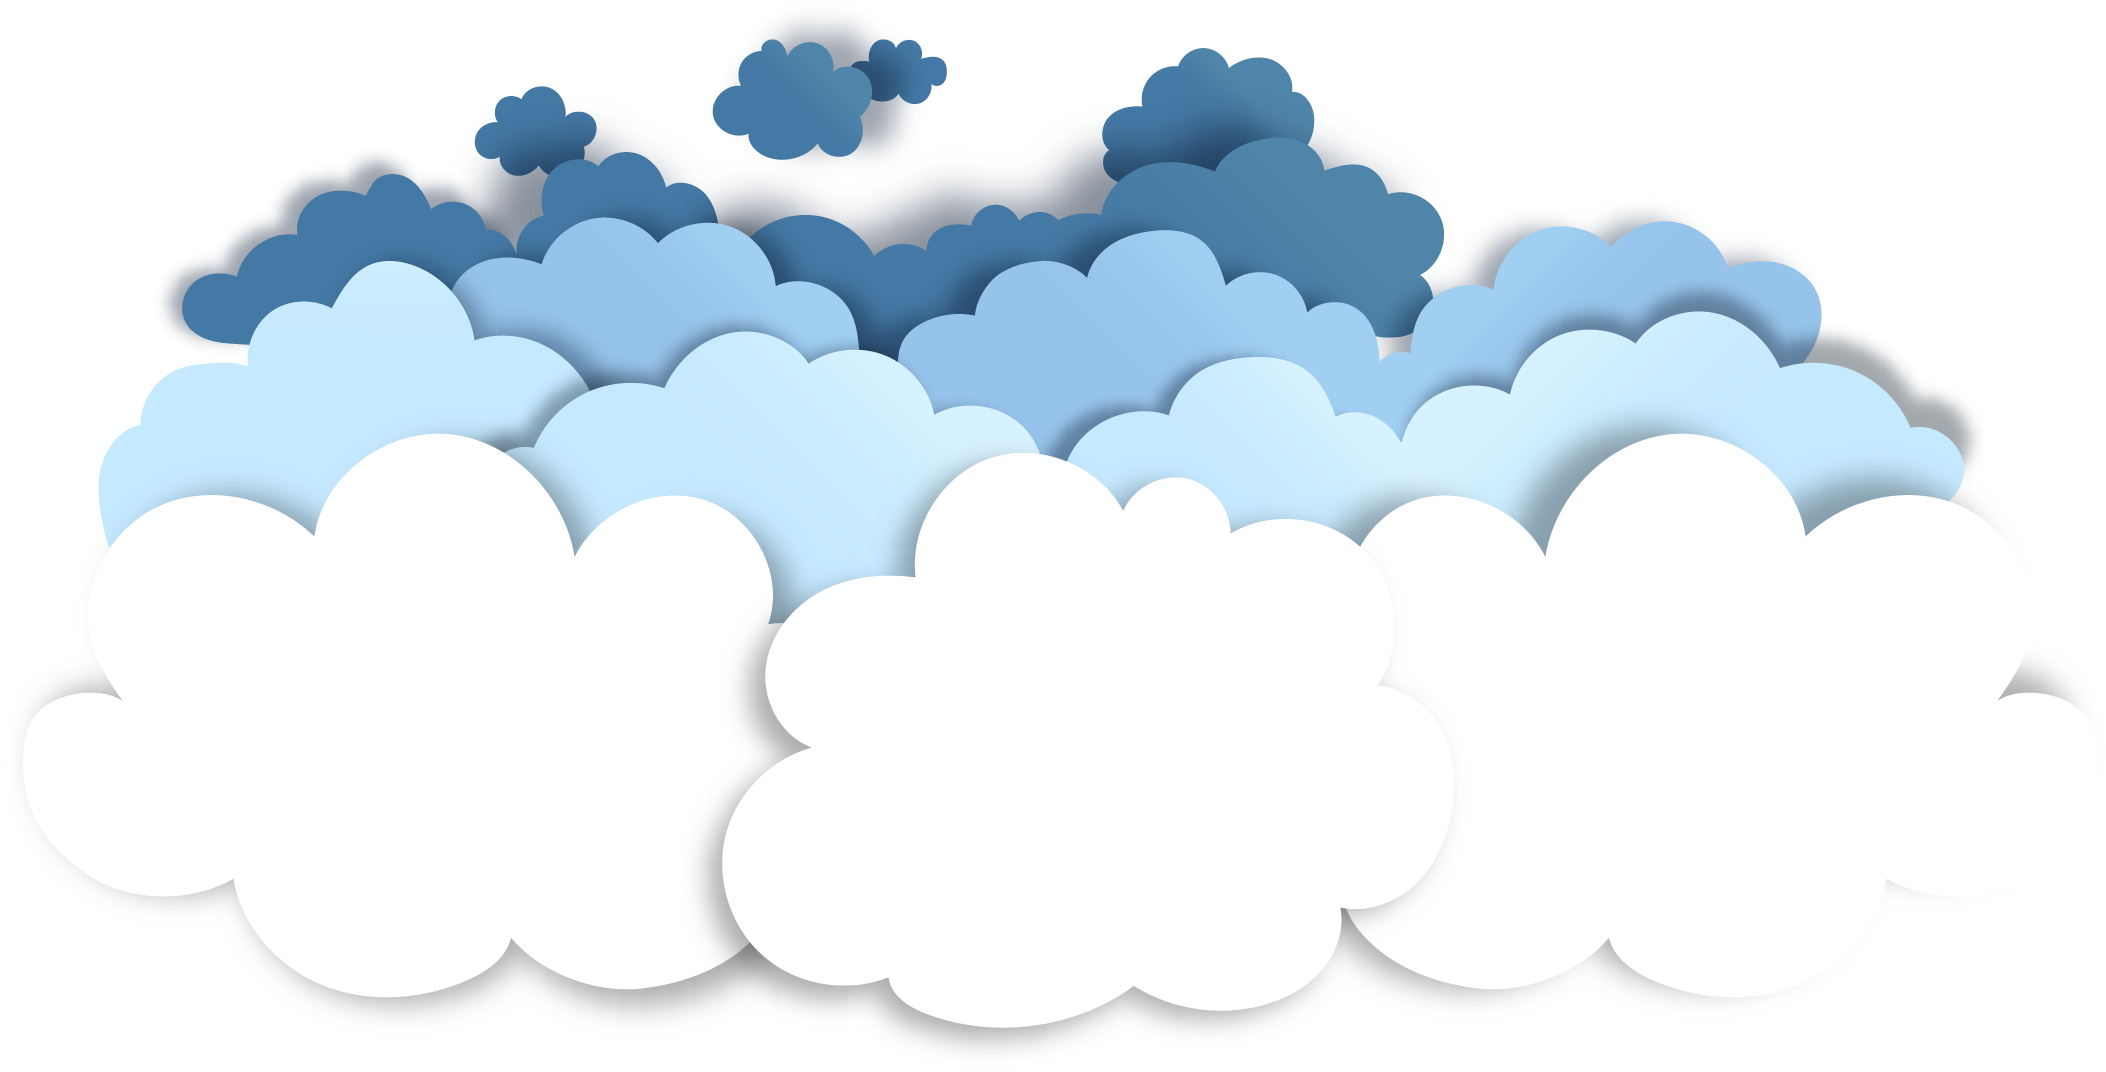
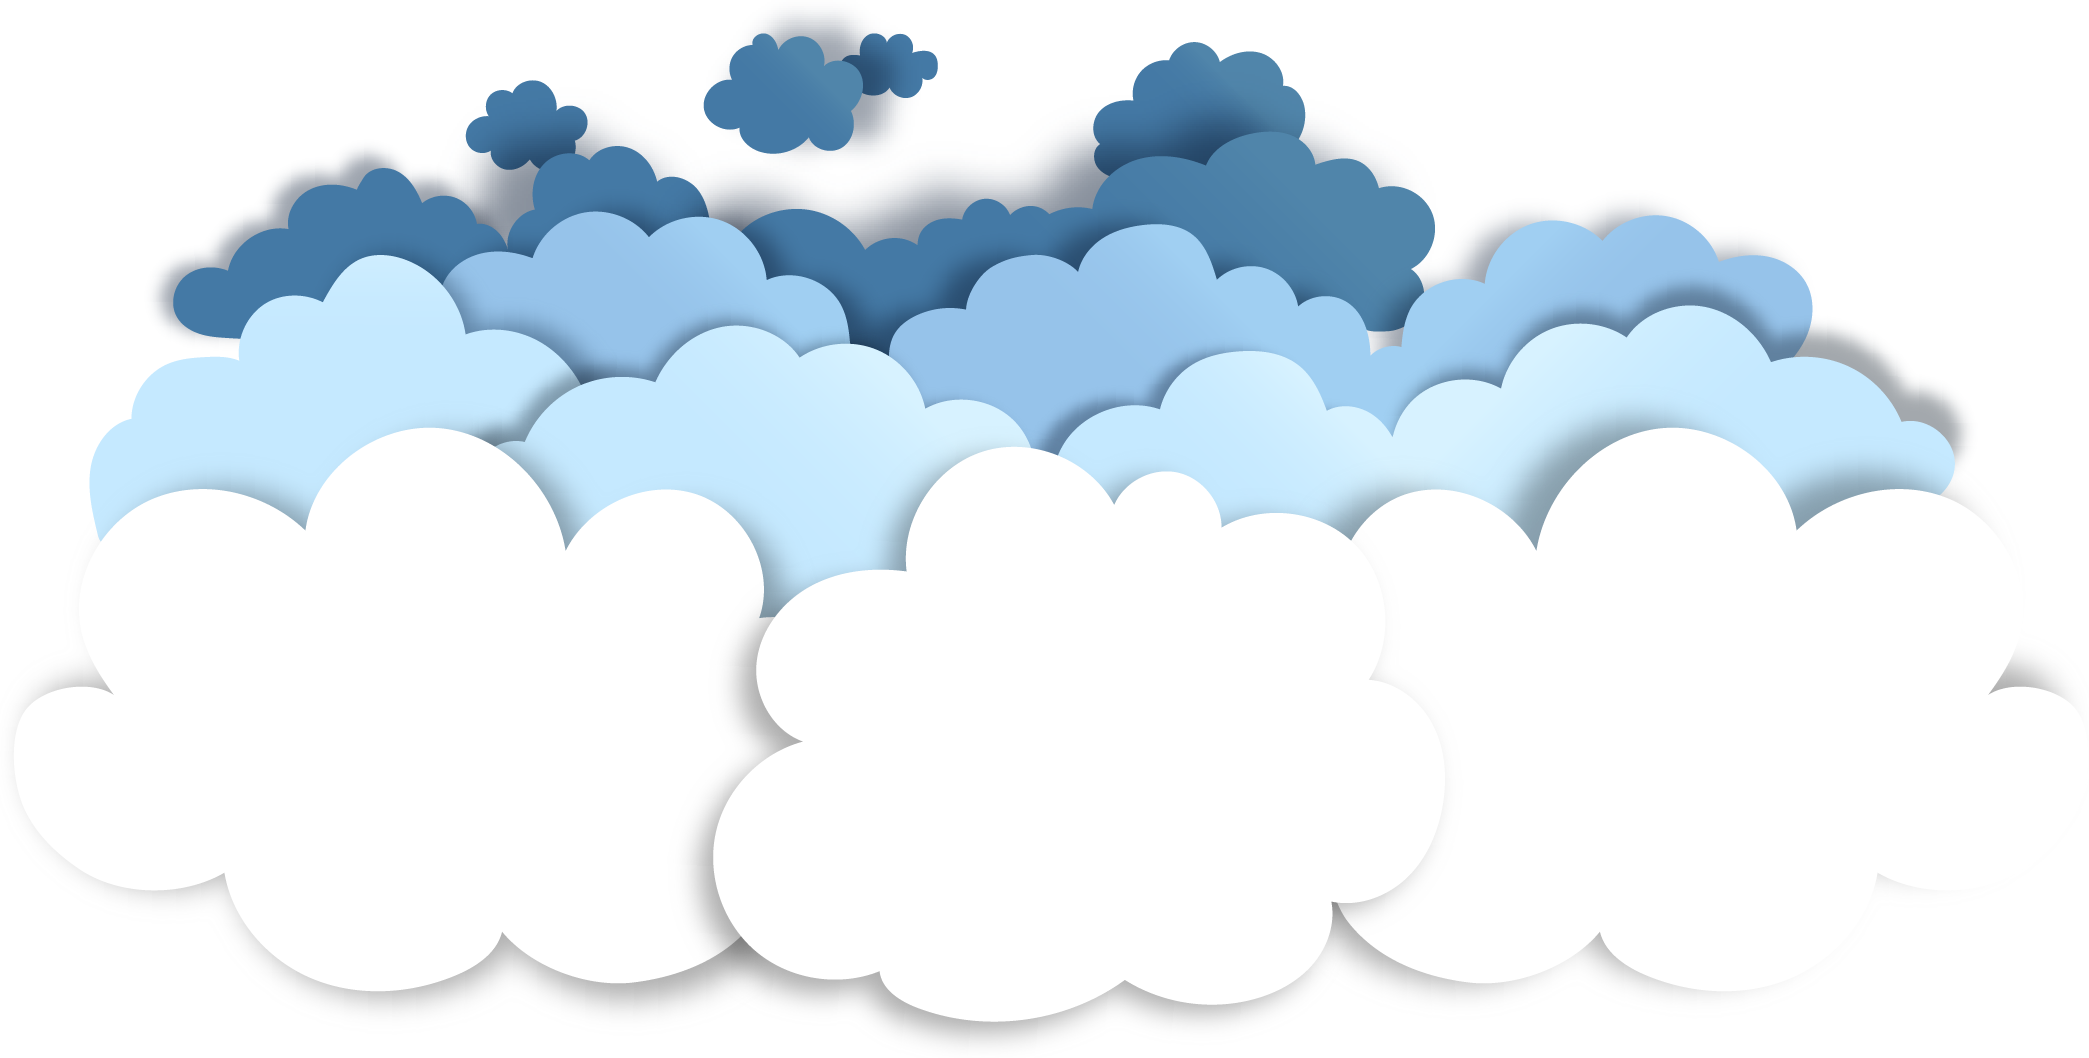
Changes

diff --git a/src/routes/_rain/_rain.svelte b/src/routes/_rain/_rain.svelte
@@ -1,9 +1,8 @@
 <script>
 	import IntersectionObserver from 'svelte-intersection-observer';
-	import Summary from './_summary.svelte';
-	import StatBuff from './_stat_buff.svelte';
 	import { onMount } from 'svelte';
 	let element;
+	import Pictures from './_pictures.svelte';
 
 	let ParticlesComponent;
 	onMount(async () => {
@@ -15,62 +14,6 @@
 	let particlesConfig = {
 		detectRetina: true,
 		fpsLimit: 60,
-		interactivity: {
-			detectsOn: 'canvas',
-			events: {
-				onClick: {
-					enable: false,
-					mode: 'repulse'
-				},
-				onDiv: {
-					elementId: 'repulse-div',
-					enable: false,
-					mode: 'repulse'
-				},
-				onHover: {
-					enable: false,
-					mode: 'repulse',
-					parallax: {
-						enable: false,
-						force: 60,
-						smooth: 10
-					}
-				},
-				resize: true
-			},
-			modes: {
-				bubble: {
-					distance: 400,
-					duration: 2,
-					opacity: 0.8,
-					size: 40,
-					speed: 3
-				},
-				connect: {
-					distance: 80,
-					lineLinked: {
-						opacity: 0.5
-					},
-					radius: 60
-				},
-				grab: {
-					distance: 400,
-					lineLinked: {
-						opacity: 1
-					}
-				},
-				push: {
-					quantity: 4
-				},
-				remove: {
-					quantity: 2
-				},
-				repulse: {
-					distance: 200,
-					duration: 0.4
-				}
-			}
-		},
 		particles: {
 			color: {
 				value: '#ffffff'
@@ -183,8 +126,7 @@
 </script>
 
 <div class="relative">
-	<Summary />
-	<StatBuff />
+	<Pictures />
 	<IntersectionObserver {element} on:observe={handleObserve} threshold={0.3}>
 		<div bind:this={element}>
 			<svelte:component
@@ -192,15 +134,16 @@
 				on:particlesLoaded={onParticlesLoaded}
 				options={particlesConfig}
 				style="background: white"
+				id="rain"
 			/>
 		</div>
 	</IntersectionObserver>
 </div>
 
 <style global>
-	#tsparticles {
-		background: linear-gradient(180deg, rgba(0, 0, 0, 1) 0%, rgba(3, 37, 76, 1) 100%);
-		height: 200vh;
+	#rain {
+		background: linear-gradient(180deg, rgba(3, 37, 76, 1) 0%, rgba(3, 37, 76, 1) 100%);
+		height: 300vh;
 		z-index: -1;
 	}
 </style>

diff --git a/src/routes/_rain/_cloud.svelte b/src/routes/_rain/_cloud.svelte
@@ -1,0 +1,11 @@
+<div class="w-full overflow-x-hidden sky-to-rain">
+	<div class="flex flex-col h-full justify-between " style="width: 125vw;">
+		<img loading="lazy" alt="Cloud" src="clouds.png" style="transform: translateX(-5%)" />
+	</div>
+</div>
+
+<style>
+	.sky-to-rain {
+		background: linear-gradient(180deg, rgba(3, 37, 76, 1) 50%, rgba(159,159,159, 1) 50%);
+	}
+</style>

diff --git a/src/routes/_stars/_stars.svelte b/src/routes/_stars/_stars.svelte
@@ -74,7 +74,7 @@
 <div class="relative">
     <Summary />
     <StatBuff/>
-	<IntersectionObserver {element} on:observe={handleObserve} threshold={0.3}>
+	<IntersectionObserver {element} on:observe={handleObserve} threshold={0.2}>
 		<div bind:this={element}>
 			<svelte:component
 				this={ParticlesComponent}

diff --git a/src/routes/index.svelte b/src/routes/index.svelte
@@ -1,5 +1,8 @@
 <script>
-	import Stars from './_stars.svelte';
-	import Rain from './_rain.svelte';
+	import Stars from './_stars/_stars.svelte';
+	import Cloud from './_rain/_cloud.svelte';
+	import Rain from './_rain/_rain.svelte';
 </script>
+<Stars/>
+<Cloud/>
 <Rain/>

diff --git a/src/routes/_rain/_pictures.svelte b/src/routes/_rain/_pictures.svelte
@@ -1,0 +1,3 @@
+<div class="absolute w-full z-0">
+    <img loading="lazy" alt="Mountains" src="ground.png" />
+</div>
